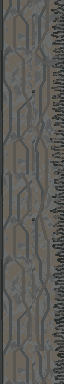
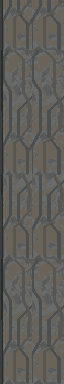
remove player renderer and only use one renderer for everything + add new textures

diff --git a/hwmain.py b/hwmain.py
@@ -45,9 +45,8 @@ def update_loaded_chunks():
                     for line in level:
                         line = line.strip()
                         line = line.split()
-                        objects.append(Environment(int(line[1]) + 16 * chunk[0], int(line[2]) + 16 * chunk[1], textures[line[0]]))
-                        # for object in objects:
-                        #     print(object.x, object.y, object.texture.width, object.texture.texture)
+                        collision_objects.append(Environment(int(line[1]) + 16 * chunk[0], int(line[2]) + 16 * chunk[1], textures[line[0]]))
+
                 new_chunks = []
             except FileNotFoundError:
                 pass
@@ -55,6 +54,7 @@ def update_loaded_chunks():
 def texture_load():
     for texture in assets:
         textures.update({texture : AssetManager(assets[texture])})
+        print(textures)
 
 # =========================
 # Classes
@@ -68,7 +68,7 @@ class AssetManager:
         self.texture_raw = ctx.texture((self.width, self.height), 4, self.texture.tobytes())
         self.texture_raw.filter = (ctx.NEAREST, ctx.NEAREST)
     def bind(self):
-        self.texture_raw.use(location=2)
+        self.texture_raw.use(location=0)
 
 class Environment:
     def __init__(self, x, y, texture):
@@ -81,7 +81,7 @@ class Environment:
         return wcoords_translate(self.x, self.y)
 
 class Entity:
-    def __init__(self, name, x, y, texture_path, width, height):
+    def __init__(self, name, x, y, texture, width, height):
         self.name = name
         self.x = x
         self.y = y
@@ -90,22 +90,14 @@ class Entity:
         self.noclip = False
         self.width = width
         self.height = height
-        self.texture = Image.open(texture_path).convert("RGBA")
-        self.texture_raw = ctx.texture((32, 64), 4, self.texture.tobytes())
-        self.texture_raw.filter = (ctx.NEAREST, ctx.NEAREST)
-        self.texture_raw.use(location=0)
-        self.vertex = np.array([0.0,  0.0, 0.0, 0, 1, #topleft
-                                0.0, 0.0 - self.height, 0.0, 0, 0, #bottomleft
-                                self.width, 0.0, 0.0, 1, 1, #topright
-                                self.width,  0.0 - self.height, 0.0, 1, 0, #bottomright
-                                #x, y, z, u = width, v = height
-                                ], dtype='f4')
+        self.texture = texture
+
     def scoords(self):
         return wcoords_translate(self.x, self.y)
     def chunk(self):
         return chunk_translate(self.x, self.y)
     def collide(self):
-        for object in objects:
+        for object in collision_objects:
             if self.x > object.x - 1 and self.x < object.x + object.width and self.y < object.y + 2 and self.y > object.y - object.height:
                 return [True, object]
         return [False, None]
@@ -213,6 +205,7 @@ debug_timer = Timer(0.1)
 # Game Objects
 # =========================
 assets = {
+    "debug_player": "assets/debug/player.png",
     "debug_ground": "assets/debug/floor.png",
     "box2x": "assets/debug/box2x.png",
     "box": "assets/debug/box.png",
@@ -220,55 +213,33 @@ assets = {
     "floor": "assets/environment/floors/floor1.png",
     "wall1": "assets/environment/walls/wall1.png",
     "wall2": "assets/environment/walls/wall2.png",
+    "wall3": "assets/environment/walls/wall3.png",
 }
 textures = {}
 texture_load()
 
 camera = Camera()
-player = Entity("hanspeter", 8, 8, "assets/debug/player.png", screen_ratio[0], screen_ratio[1] * 2)
+player = Entity("hanspeter", 8, 8, textures["debug_player"], 1, 2)
+
 debug = Debug()
-objects = []
+collision_objects = []
+objects = [player]
+
 new_chunks = []
 loaded_chunks = []
 
 # =========================
-# OpenGL
+# OpenGL main renderer
 # =========================
-entity_program = ctx.program(
-    vertex_shader='''
-    #version 330 core
-    in vec3 vector;
-    in vec2 uv;
-    out vec2 v_uv;
-    uniform vec3 player_position;
-    void main() {
-    gl_Position = vec4(vector + player_position, 1.0);
-    v_uv = uv;
-    }
-    ''',
-    fragment_shader='''
-    #version 330 core
-    in vec2 v_uv;
-    out vec4 Colour;
-    uniform sampler2D tex;
-    void main() {
-    Colour = texture(tex, v_uv);
-    }
-    ''',
-)
 
-player_vbo = ctx.buffer(data=player.vertex)
-player_vao = ctx.vertex_array(entity_program, [(player_vbo, '3f 2f', 'vector', 'uv')])
-entity_program["tex"] = 0
+vertex = np.array([ 0.0, 0.0, 0, 0, #topleft
+                    0.0,-1.0, 0, 1, #bottomleft
+                    1.0, 0.0, 1, 0, #topright
+                    1.0,-1.0, 1, 1, #bottomright
+                #x, y, u = width, v = height
+                ], dtype='f4')
 
-environment_vertex = np.array([  0.0, 0.0, 0, 0, #topleft
-                                 0.0,-1.0, 0, 1, #bottomleft
-                                 1.0, 0.0, 1, 0, #topright
-                                 1.0,-1.0, 1, 1, #bottomright
-                                #x, y, u = width, v = height
-                                ], dtype='f4')
-
-environment_program = ctx.program(
+program = ctx.program(
     vertex_shader='''
     #version 330 core
     in vec2 position;
@@ -284,16 +255,16 @@ environment_program = ctx.program(
     #version 330 core
     in vec2 v_uv;
     out vec4 Colour;
-    uniform sampler2D env_tex;
+    uniform sampler2D tex;
     void main() {
-    Colour = texture(env_tex, v_uv);
+    Colour = texture(tex, v_uv);
     }
     ''',
 )
 
-environment_vbo = ctx.buffer(data=environment_vertex)
-environment_vao = ctx.vertex_array(environment_program, [(environment_vbo, '2f 2f', 'position', 'uv')])
-environment_program["env_tex"] = 2
+vbo = ctx.buffer(data=vertex)
+vao = ctx.vertex_array(program, [(vbo, '2f 2f', 'position', 'uv')])
+program["tex"] = 0
 
 # =========================
 # Game Loop
@@ -352,22 +323,18 @@ while True:
 
     # UPDATE CAMERA
     camera.update() # remove for static cam
-    # UPDATE PLAYER
-    entity_program["player_position"].value = [player.scoords()[0], player.scoords()[1], 0]
 
     # RENDERING
     ctx.clear(0.5, 0, 0.5)
-    player_vao.render(mode=moderngl.TRIANGLE_STRIP)
-    
-    # to be improved:
-    for object in objects:
+
+    for object in objects + collision_objects:
         object.texture.bind()
-        environment_program["transform_matrix"].value = np.array([  (object.width * screen_ratio[0]), 0.0, 0.0, 0.0,
+        program["transform_matrix"].value = np.array([              (object.width * screen_ratio[0]), 0.0, 0.0, 0.0,
                                                                     0.0, (object.height * screen_ratio[1]), 0.0, 0.0,
                                                                     0.0, 0.0, 1.0, 0.0,
                                                                     object.scoords()[0], object.scoords()[1], 0.0, 1.0,
                                                                     ], dtype='f4')
-        environment_vao.render(mode=moderngl.TRIANGLE_STRIP)
+        vao.render(mode=moderngl.TRIANGLE_STRIP)
     
     debug.update()
     pygame.display.flip()
